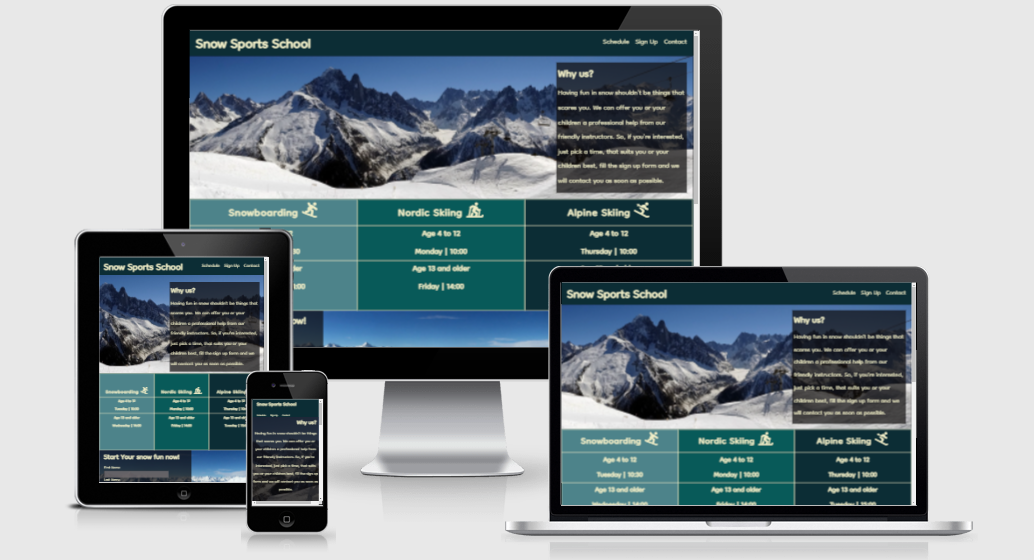
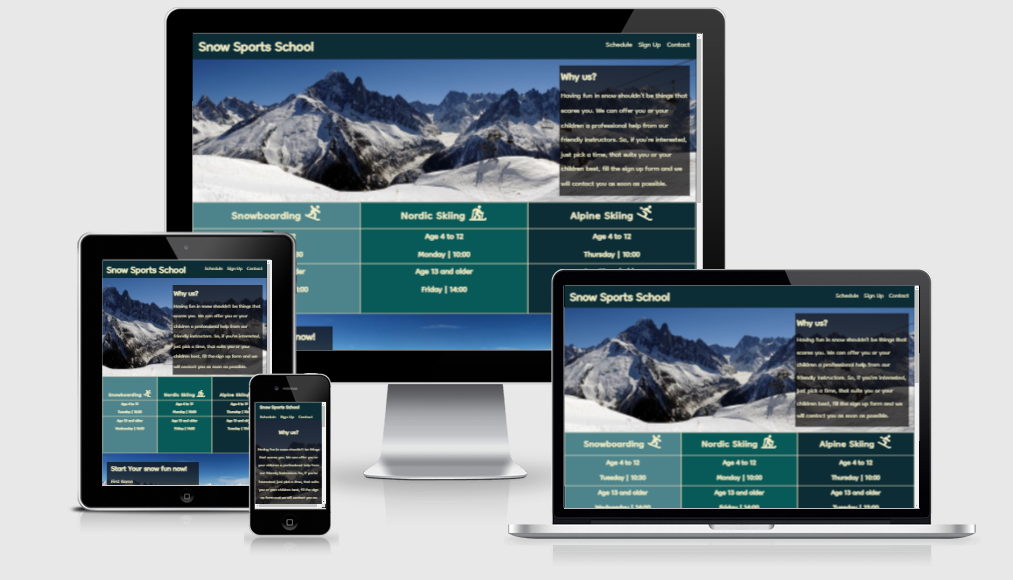
Fixed sign up form layout and formated README.md file

diff --git a/assets/css/styles.css b/assets/css/styles.css
@@ -98,13 +98,13 @@ hr {
     color: #f0edc6;
     text-align: left;
     padding-left: 20px;
-    margin: 0px 0 20px 20px;
-    top: 20px;
+    margin: 0px 20px 0px 20px;
+    top: 40px;
     position: relative;
 }
 input {
     display: block;
-    font-size: 70%;
+    font-size: 50%;
     margin-top: -5px;
 }
 
@@ -178,8 +178,8 @@ footer {
     }
     #links {
         float: left;
-        font-size: 150%;
-        padding: 0 0 0 20px;
+        font-size: 180%;
+        padding-left: 20px;
     }
     #links li {
         margin: 0;
@@ -194,6 +194,12 @@ footer {
         top: 0;
         text-align: center;
     }
+    #text-box p {
+        padding: 30px 5px 0 5px;
+    }
+    #text-box h2 {
+        padding-top: 30px;
+    }
     #times {
         height: 600px;
     }
@@ -202,13 +208,19 @@ footer {
         height: 200px;
         padding: 0;
     }
+    #form {
+        height: 500px;
+    }
     #signup {
-        height: 400px;
+        height: 500px;
         width: 95%;
         margin: 0 0 0 0;
+        top: 0px;
+        position: relative;
     }
     #signup h2 {
-        font-size: 80%;
+        font-size: 120%;
+        padding-top: 30px;
     }
     label {
         font-size: 70%;

diff --git a/index.html b/index.html
@@ -124,6 +124,7 @@
             </li>
         </ul>
     </footer>
+    <!-- script for Fontawesome icons in schedule and media links -->
     <script src="https://kit.fontawesome.com/feb184a3f6.js" crossorigin="anonymous"></script>
 </body>
 </html>

diff --git a/README.md b/README.md
@@ -1,42 +1,62 @@
 # Snow Sports School
+
 The Snow Sports School website is created for those, who want to learn:
 - Alpine skiing
 - Nordic skiing
 - Snowboarding
+
 On this website, users can find information about school, meeting times, contact and form for sing up.
+
 ![image info](assets/images/am_i_responsive.png) 
+
 ## Features
+
   ### Navigation
+
  - At the top left corner of the page, navigation bar shows name of the school
- - At the top right corner, stands navigation links. Those are: Schedule, Sign up and Contact. 
-![image info](assets/images/nav bar.png)
+ - At the top right corner, stands navigation links. Those are: Schedule, Sign up and Contact.
+
+![image info](assets/images/nav_bar.png)
 
   ### The Header
+
 - Contains paragraph, that explains, why customer should use our service
+
 ![image info](assets/images/header.png)
 
   ### Schedule
+
 - Contains information about meeting times for different activities, for different age groups
+
 ![image info](assets/images/times.png)
 
   ### The Sign Up form
+
 - Contains Sign Up form, in which users supose to add there first name, last name, email and choose age group and activity
+
 ![image info](assets/images/form.png)
 
   ### Contact
+
 - Contains our phone number, email address and address, so that the user can contact us in prefered way
+
 ![image info](assets/images/contacts.png)
 
   ### Footer
+
 - Contains our links to social media pages
+
 ![image info](assets/images/footer.png)
 
   ### Testing
+
 - I tested that this webpage works in different browssers: Chrome, Firefox, Opera, Edge.
 - I confirmed that this webpage is responsive and works on different screen sizes.
 - I confirme that all element are readable and easy to understand.
 - I have confirmed, that form work: al entrys are requared, email field accepts only emails and submition button works.
+
   ### Validator Testing
+
 - HTML - No errors returned when passing through the official W3C validator
 - CSS - No errors returned when passing through the official W3C (Jigsaw) validator
 - Accessibility - i confirmed that the fonts and colors are easy to read and accessible by running it through lighthouse in devtools
@@ -44,9 +64,13 @@ On this website, users can find information about school, meeting times, contact
 ![image info](assets/images/score.png)
 
   ### Deployment
+
 - The site was deployed to GitHub pages
 - [The live link can be found here](https://algirdas1993.github.io/snow-sports-school/)
-  ## Credits
+
+## Credits
+
   ### Content
+
 - Code for social media link and schedule section images was taken from [Font Awesome](https://fontawesome.com/)
 - Used images was taken from [Pixabay](https://pixabay.com/)
